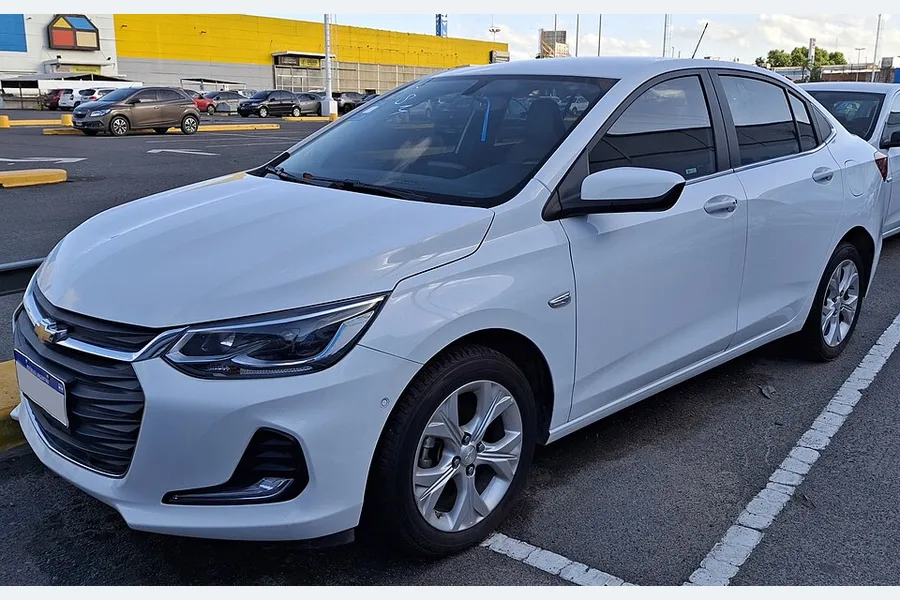
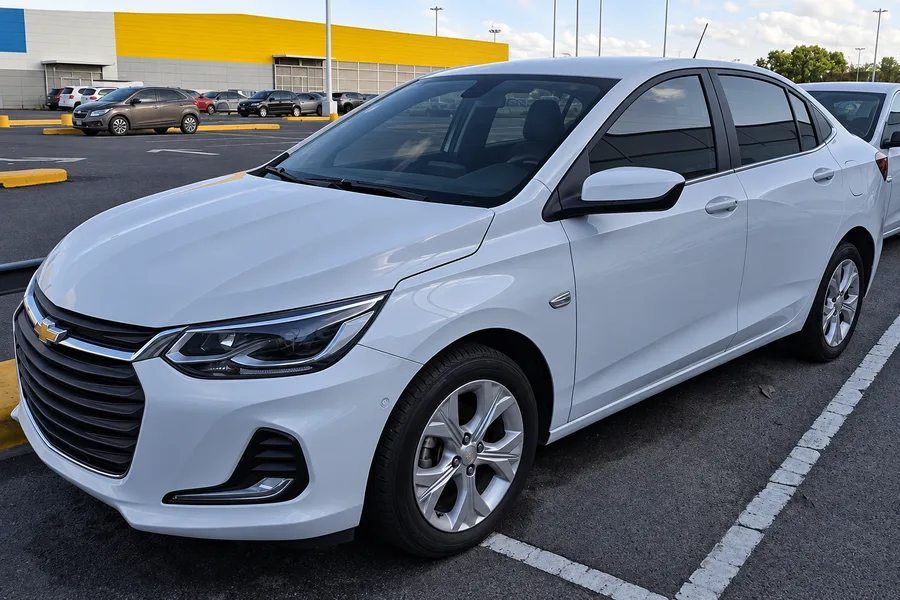
Renovar la portada y retirar placas y publicidad de las fotos

diff --git a/public/index.html b/public/index.html
@@ -14,19 +14,17 @@
 <meta property="og:url" content="__ORIGIN__/">
 <meta property="og:title" content="Renta Car Ecuador">
 <meta property="og:description" content="Renta de vehículos en Ecuador. Reserva en línea y obtén un 10% de descuento.">
-<meta property="og:image" content="__ORIGIN__/og.jpg">
+<meta property="og:image" content="__ORIGIN__/og-ruta.jpg">
 <meta property="og:image:width" content="1200">
 <meta property="og:image:height" content="630">
-<meta property="og:image:alt" content="Sedán oscuro en una carretera, fotografía ilustrativa.">
+<meta property="og:image:alt" content="Un sedán, una SUV y una pick-up en una carretera andina. Imagen ilustrativa.">
 <meta name="twitter:card" content="summary_large_image">
 <meta name="twitter:title" content="Renta Car Ecuador">
 <meta name="twitter:description" content="Renta de vehículos en Ecuador. Reserva en línea y obtén un 10% de descuento.">
-<meta name="twitter:image" content="__ORIGIN__/og.jpg">
-<meta name="twitter:image:alt" content="Sedán oscuro en una carretera, fotografía ilustrativa.">
+<meta name="twitter:image" content="__ORIGIN__/og-ruta.jpg">
+<meta name="twitter:image:alt" content="Un sedán, una SUV y una pick-up en una carretera andina. Imagen ilustrativa.">
 <link rel="icon" href="/favicon.svg?v=2" type="image/svg+xml">
 <link rel="preload" href="fonts/manrope-latin.woff2" as="font" type="font/woff2" crossorigin>
-<link rel="preload" href="images/hero-1600.webp" as="image" type="image/webp" media="(min-width: 800px)" fetchpriority="high">
-<link rel="preload" href="images/hero-800.webp" as="image" type="image/webp" media="(max-width: 799px)" fetchpriority="high">
 <link rel="stylesheet" href="styles.css">
 <script type="application/ld+json">
 {"@context":"https://schema.org","@type":"AutoRental","name":"Renta Car Ecuador","description":"Renta de vehículos en Ecuador. Reserva en línea.","areaServed":"Ecuador","inLanguage":"es-EC"}
@@ -71,13 +69,13 @@
   </div>
   <figure class="hero-fig">
     <img
-      src="images/hero-800.webp"
-      srcset="images/hero-800.webp 800w, images/hero-1600.webp 1600w"
+      src="images/hero-ruta-768.webp"
+      srcset="images/hero-ruta-768.webp 768w, images/hero-ruta-1536.webp 1536w"
       sizes="(min-width: 980px) 52vw, 100vw"
-      width="1600" height="900"
-      alt="Sedán oscuro en movimiento por una carretera bordeada de palmeras. Fotografía ilustrativa."
+      width="1536" height="1024"
+      alt="Un sedán, una SUV y una pick-up recorren una carretera entre montañas andinas."
       fetchpriority="high" decoding="async">
-    <figcaption>Fotografía ilustrativa</figcaption>
+    <figcaption>Imagen ilustrativa</figcaption>
   </figure>
 </section>
 
@@ -368,7 +366,7 @@
     </nav>
     <div>
       <p>© <span id="y"></span> Renta Car Ecuador. Todos los derechos reservados.</p>
-      <p class="fine">Fotografías ilustrativas de vehículos. Imágenes de portada de <a href="https://unsplash.com/license">Unsplash</a>.</p>
+      <p class="fine">Imagen ilustrativa de portada generada con ImageGen.</p>
       <p class="fine"><a href="/creditos-fotos.html">Créditos de las fotos de la flota</a></p>
     </div>
   </div>

diff --git a/public/styles.css b/public/styles.css
@@ -62,7 +62,7 @@ button.btn:disabled{opacity:.7;cursor:progress;transform:none}
 .lead{font-size:clamp(1.05rem,2vw,1.25rem);color:#e7eef8;margin:0 0 28px;max-width:38ch}
 .lead strong{color:var(--rose);font-weight:700}
 .cta{display:flex;gap:12px;flex-wrap:wrap}
-.hero-fig{margin:0;position:relative;min-height:280px;overflow:hidden}
+.hero-fig{margin:0;position:relative;aspect-ratio:3/2;overflow:hidden}
 .hero-fig img{width:100%;height:100%;object-fit:cover;position:absolute;inset:0}
 .hero-fig figcaption{position:absolute;left:14px;bottom:14px;background:var(--navy);color:#fff;font-size:12px;letter-spacing:.08em;text-transform:uppercase;padding:6px 10px;border-radius:999px}
 
@@ -212,7 +212,7 @@ footer button.enlace{background:none;border:0;padding:0;color:#fff;font:inherit;
 @media(min-width:980px){
   .hero{grid-template-columns:minmax(420px,1fr) minmax(420px,1.05fr);min-height:560px}
   .hero-copy{padding:72px 56px 72px 7vw}
-  .hero-fig{min-height:100%}
+  .hero-fig{align-self:center;margin:24px 24px 24px 0;border-radius:16px}
   .grid4,.vgrid,.steps{grid-template-columns:repeat(4,1fr)}
   .steps li{min-height:100%}
   .reserva{grid-template-columns:.85fr 1.15fr;gap:48px}
@@ -252,7 +252,6 @@ dialog::backdrop{background:#1b1e23cc}
   .nav-links a{padding:14px 12px;border-radius:10px;min-height:48px;display:flex;align-items:center}
   .nav-links a:hover{background:#fff}
   .hero{min-height:0}
-  .hero-fig{min-height:clamp(200px,52vw,420px)}
   .hero-copy{padding:36px 22px 42px}
   .sec{padding:64px 0}
   .wa span{display:none}

diff --git a/public/creditos-fotos.html b/public/creditos-fotos.html
@@ -11,7 +11,7 @@
   <main class="wrap sec">
     <a href="/#vehiculos">Volver a la flota</a>
     <h1>Créditos de fotografía</h1>
-    <p>Las fotos de los modelos provienen de Wikimedia Commons. Se ajustaron de tamaño y se convirtieron a WebP bajo las licencias indicadas. Son imágenes de referencia para identificar los modelos del catálogo.</p>
+    <p>Las fotos de los modelos provienen de Wikimedia Commons. Se retocaron con ImageGen para retirar placas y publicidad, y se ajustaron de tamaño y formato bajo las licencias indicadas. Son imágenes de referencia para identificar los modelos del catálogo.</p>
     <ul>
       <li><strong>Kia Soluto</strong> · Ethan Llamas · <a href="https://commons.wikimedia.org/wiki/File:Kia_Soluto_AB_1.4_EX_AT_Clear_White.jpg">Foto original</a> · <a href="https://creativecommons.org/licenses/by-sa/4.0">CC BY-SA 4.0</a></li>
       <li><strong>Chevrolet Onix Sedán</strong> · Just a Man · <a href="https://commons.wikimedia.org/wiki/File:2022_Chevrolet_Onix_Plus_1.0_Premier_(front).jpg">Foto original</a> · <a href="https://creativecommons.org/licenses/by/4.0">CC BY 4.0</a></li>
